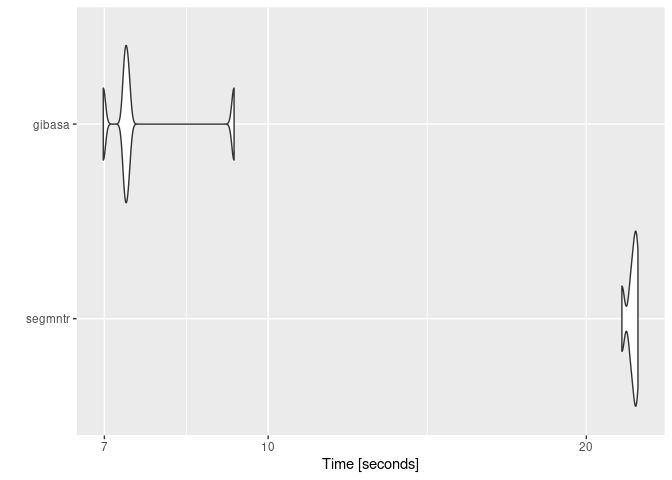
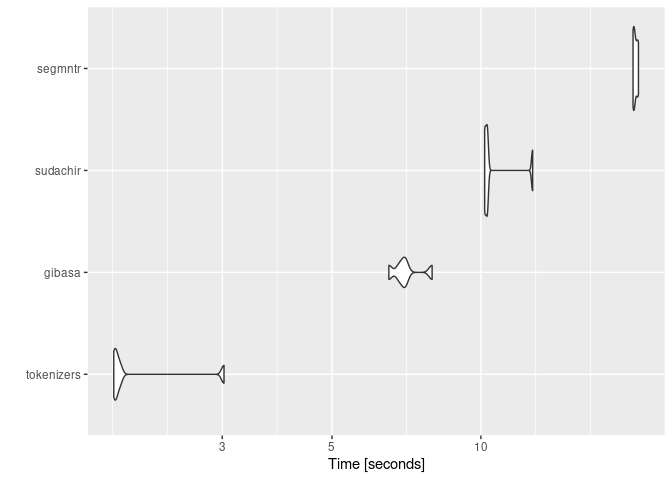
update

diff --git a/README.md b/README.md
@@ -10,7 +10,7 @@
 
 ## Overview
 
-[Livedoorニュースコーパス](https://www.rondhuit.com/download.html#ldcc)を用いた文書分類について、日本語テキストの分かち書きに使うトークナイザを差し替えながら試しています。
+[livedoorニュースコーパス](https://www.rondhuit.com/download.html#ldcc)を用いた文書分類について、日本語テキストの分かち書きに使うトークナイザを差し替えながら試しています。
 
 ## Summary of Dataset
 
@@ -28,15 +28,15 @@ tar_read(nchar_summary)
 #> # A tibble: 9 × 7
 #>   category       nchar_mean nchar_median nchar_min nchar_max nchar_total     n
 #>   <fct>               <dbl>        <dbl>     <dbl>     <dbl>       <dbl> <dbl>
-#> 1 dokujo-tsushin       1559         1575        56      4619     1358728   871
-#> 2 it-life-hack         1449         1249       139     12642     1262648   871
-#> 3 kaden-channel         893          757       142      5472      772623   865
-#> 4 livedoor-homme       1674         1460        37      5731      857520   512
-#> 5 movie-enter          1456         1297        59      6002     1268470   871
-#> 6 peachy               1402         1242        74      5888     1182028   843
-#> 7 smax                 1847         1550       138      8794     1609529   871
-#> 8 sports-watch          697          656       143      2247      628762   901
-#> 9 topic-news            738          713       106      2893      569065   771
+#> 1 dokujo-tsushin       1529         1559       870      2122      117757    77
+#> 2 it-life-hack         1493         1326       328      5773      120964    81
+#> 3 kaden-channel         864          747       229      3931       77764    90
+#> 4 livedoor-homme       1534         1121       393      5731       84393    55
+#> 5 movie-enter          1383         1227       312      4118      116239    84
+#> 6 peachy               1325         1223       392      2992      110057    83
+#> 7 smax                 1741         1432       599      7042      151471    87
+#> 8 sports-watch          674          641       292      1411       74206   110
+#> 9 topic-news            722          706       132      1635       50606    70
 
 tar_read(nchar_density)
 ```
@@ -49,6 +49,7 @@ tar_read(nchar_density)
 
 - [paithiov909/segmntr](https://github.com/paithiov909/segmntr)
 - [paithiov909/gibasa](https://github.com/paithiov909/gibasa)
+- [uribo/sudachir](https://github.com/uribo/sudachir)
 
 ここでは文字列の正規化などはおこなわず、コーパスの本文を直接分かち書きしています。gibasaについては付与された品詞にもとづいて語彙をフィルタしています。
 
@@ -62,15 +63,21 @@ dummy_data <-
     doc_id = seq_along(ldccr::NekoText),
     body = ldccr::NekoText,
     category = sample.int(9, length(ldccr::NekoText), replace = TRUE)
-  )
-
+  ) |>
+  dplyr::filter(nchar(body) > 50)
 
 bench <-
   microbenchmark::microbenchmark(
-    segmntr = segmntr_rec(dummy_data) |>
+    tokenizers = default_rec(dummy_data) |>
       recipes::prep() |>
       recipes::bake(new_data = NULL),
     gibasa = gibasa_rec(dummy_data) |>
+      recipes::prep() |>
+      recipes::bake(new_data = NULL),
+    sudachir = sudachir_rec(dummy_data) |>
+      recipes::prep() |>
+      recipes::bake(new_data = NULL),
+    segmntr = segmntr_rec(dummy_data) |>
       recipes::prep() |>
       recipes::bake(new_data = NULL),
     times = 5,
@@ -80,9 +87,16 @@ bench <-
 
 bench
 #> Unit: seconds
-#>     expr       min        lq     mean    median        uq       max neval cld
-#>  segmntr 21.611169 22.038543 22.10487 22.211635 22.282710 22.380300     5   b
-#>   gibasa  6.983043  7.308906  7.65979  7.340097  7.381957  9.284947     5  a
+#>        expr       min        lq      mean    median        uq       max neval
+#>  tokenizers  1.810579  1.821057  2.070419  1.830976  1.864882  3.024602     5
+#>      gibasa  6.515490  6.835027  7.073956  7.004209  7.045967  7.969086     5
+#>    sudachir 10.177166 10.204096 10.742806 10.298198 10.311038 12.723531     5
+#>     segmntr 20.304546 20.396370 20.528224 20.398717 20.718487 20.823000     5
+#>   cld
+#>  a   
+#>   b  
+#>    c 
+#>     d
 
 ggplot2::autoplot(bench)
 #> Coordinate system already present. Adding new coordinate system, which will
@@ -93,15 +107,18 @@ ggplot2::autoplot(bench)
 
 ### Modeling
 
-tidymodelsを用いてXGBoostのモデルを学習しています。わずかな差ですが、segmntrを用いたほうが精度のよいモデルを学習できています。
+tidymodelsを用いてXGBoostのモデルを学習しています。わずかな差ですが、segmntrを用いたときが精度のよいモデルを学習できています。
 
 ``` r
 tar_read(best_models)
-#> # A tibble: 2 × 9
-#>   wflow_id           .config     .metric  mean std_err     n prepr…¹ model  rank
-#>   <chr>              <chr>       <chr>   <dbl>   <dbl> <int> <chr>   <chr> <int>
-#> 1 segmntr_boost_tree Preprocess… f_meas  0.912 0.00124     3 recipe  boos…     1
-#> 2 gibasa_boost_tree  Preprocess… f_meas  0.906 0.00302     3 recipe  boos…     2
+#> # A tibble: 5 × 9
+#>   wflow_id               .config .metric  mean std_err     n prepr…¹ model  rank
+#>   <chr>                  <chr>   <chr>   <dbl>   <dbl> <int> <chr>   <chr> <int>
+#> 1 segmntr_boost_tree     Prepro… f_meas  0.812 0.0305      3 recipe  boos…     1
+#> 2 gibasa_boost_tree      Prepro… f_meas  0.808 0.0191      3 recipe  boos…     2
+#> 3 sudachir_boost_tree    Prepro… f_meas  0.792 0.0111      3 recipe  boos…     3
+#> 4 gibasa_with_filter_bo… Prepro… f_meas  0.784 0.00557     3 recipe  boos…     4
+#> 5 default_boost_tree     Prepro… f_meas  0.758 0.0213      3 recipe  boos…     5
 #> # … with abbreviated variable name ¹preprocessor
 ```
 
@@ -124,18 +141,21 @@ tar_read(best_models)
 #> Boosted Tree Model Specification (classification)
 #> 
 #> Main Arguments:
-#>   trees = 500
-#>   tree_depth = 11
+#>   trees = 300
+#>   tree_depth = 1
 #>   learn_rate = 0.2
-#>   loss_reduction = 7.86115706306508e-08
-#>   sample_size = 0.69542784715537
+#>   loss_reduction = 0.00626153110866815
+#>   sample_size = 0.837367888679728
 #>   stop_iter = 5
+#> 
+#> Engine-Specific Arguments:
+#>   nthread = max(1, parallel::detectCores(logical = FALSE) - 1, na.rm = 1)
 #> 
 #> Computational engine: xgboost
 
 (corpus <- tar_read(corp_split))
 #> <Training/Testing/Total>
-#> <5528/1848/7376>
+#> <549/188/737>
 
 ret <- tune::last_fit(wflow, corpus)
 ```
@@ -147,5 +167,5 @@ ret |>
 #> # A tibble: 1 × 3
 #>   .metric .estimator .estimate
 #>   <chr>   <chr>          <dbl>
-#> 1 f_meas  macro          0.927
+#> 1 f_meas  macro          0.819
 ```
